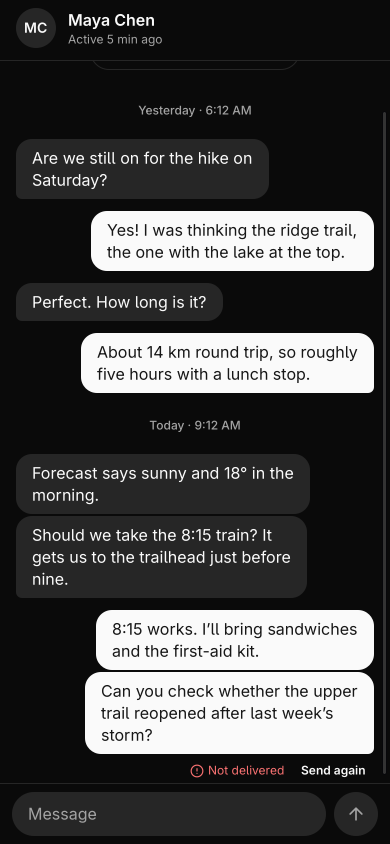
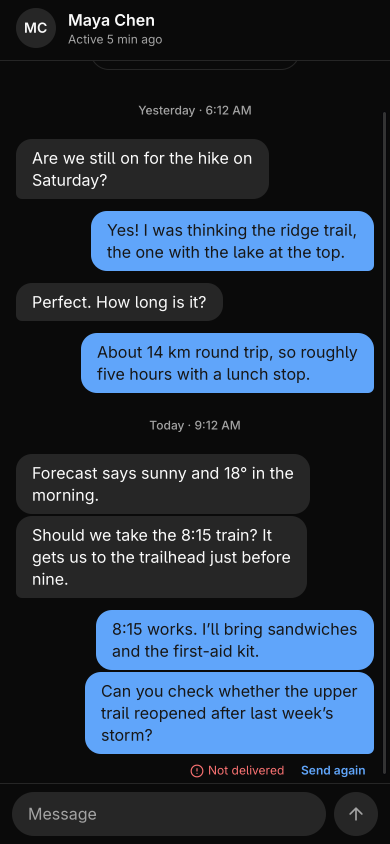
Linux: chat screenshots with the example apps' blue accent

Changed region(s): [[0.2154, 0.7085, 0.9846, 0.9242], [0.1846, 0.3697, 0.9846, 0.4929], [0.2154, 0.2464, 0.9846, 0.3389]]

diff --git a/platforms/linux/tests/scroll_list.rs b/platforms/linux/tests/scroll_list.rs
@@ -206,7 +206,9 @@ fn rows(content: &gtk::Widget) -> usize {
 
 /// The chat example opens at its newest message, in both appearances.
 fn chat_opens_at_the_newest_message() {
-    let f = Fixture::open_dir("../../examples/chat");
+    // The example apps' blue accent, so the screenshots match the other platforms'.
+    let dir = std::path::Path::new(env!("CARGO_MANIFEST_DIR")).join("../../examples/chat");
+    let f = Fixture::start_with(&example_runtime(), native_shell_gtk::InstanceOptions::default(), |i| i.load_dir(&dir));
     let vadj = scrolled(&f, "messages").vadjustment();
     let at_end = pump_until(Duration::from_secs(2), || {
         f.settle();
